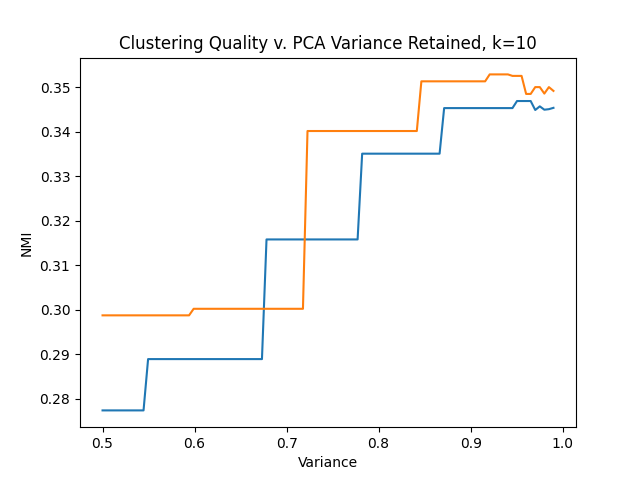
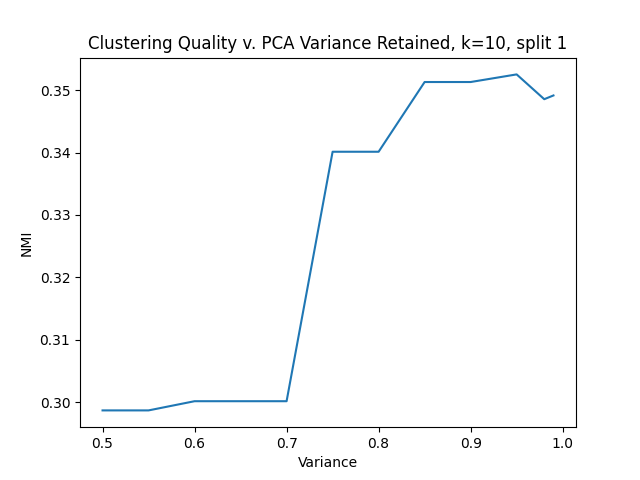
Updated Experiments

diff --git a/oracle_omd.py b/oracle_omd.py
@@ -795,7 +795,8 @@ def cluster_test(train_latent_data, latent_data, classes, split, strategy="max",
     latent_np = latent_data.drop(columns=['label'])
     latent_np = latent_np.to_numpy()
 
-    var_retained = np.linspace(0.5,0.99,num=100) #[0.5, 0.55, 0.6, 0.65, 0.7, 0.75, 0.8, 0.85, 0.9, 0.95, 0.98, 0.99] 
+    #var_retained = np.linspace(0.5,0.99,num=100) #[0.5, 0.55, 0.6, 0.65, 0.7, 0.75, 0.8, 0.85, 0.9, 0.95, 0.98, 0.99] 
+    var_retained = [0.5, 0.55, 0.6, 0.65, 0.7, 0.75, 0.8, 0.85, 0.9, 0.95, 0.98, 0.99] 
     k_vals = [10] #[i for i in np.arange(min_clust, max_clust+1)]
 
     nmi_vals = []
@@ -819,8 +820,9 @@ def cluster_test(train_latent_data, latent_data, classes, split, strategy="max",
             with open(cluster_exp_file, 'a+') as f:
                 f.write('With {} clusters, nmi is {}'.format(k, quality))
     
+    plt.figure(split)
     plt.plot(var_retained, nmi_vals)
-    plt.title('Clustering Quality v. PCA Variance Retained, k=10')
+    plt.title('Clustering Quality v. PCA Variance Retained, k=10, split {}'.format(split))
     plt.xlabel('Variance')
     plt.ylabel('NMI')
     plt.savefig('nmi_k_10_split_{}.png'.format(split))
